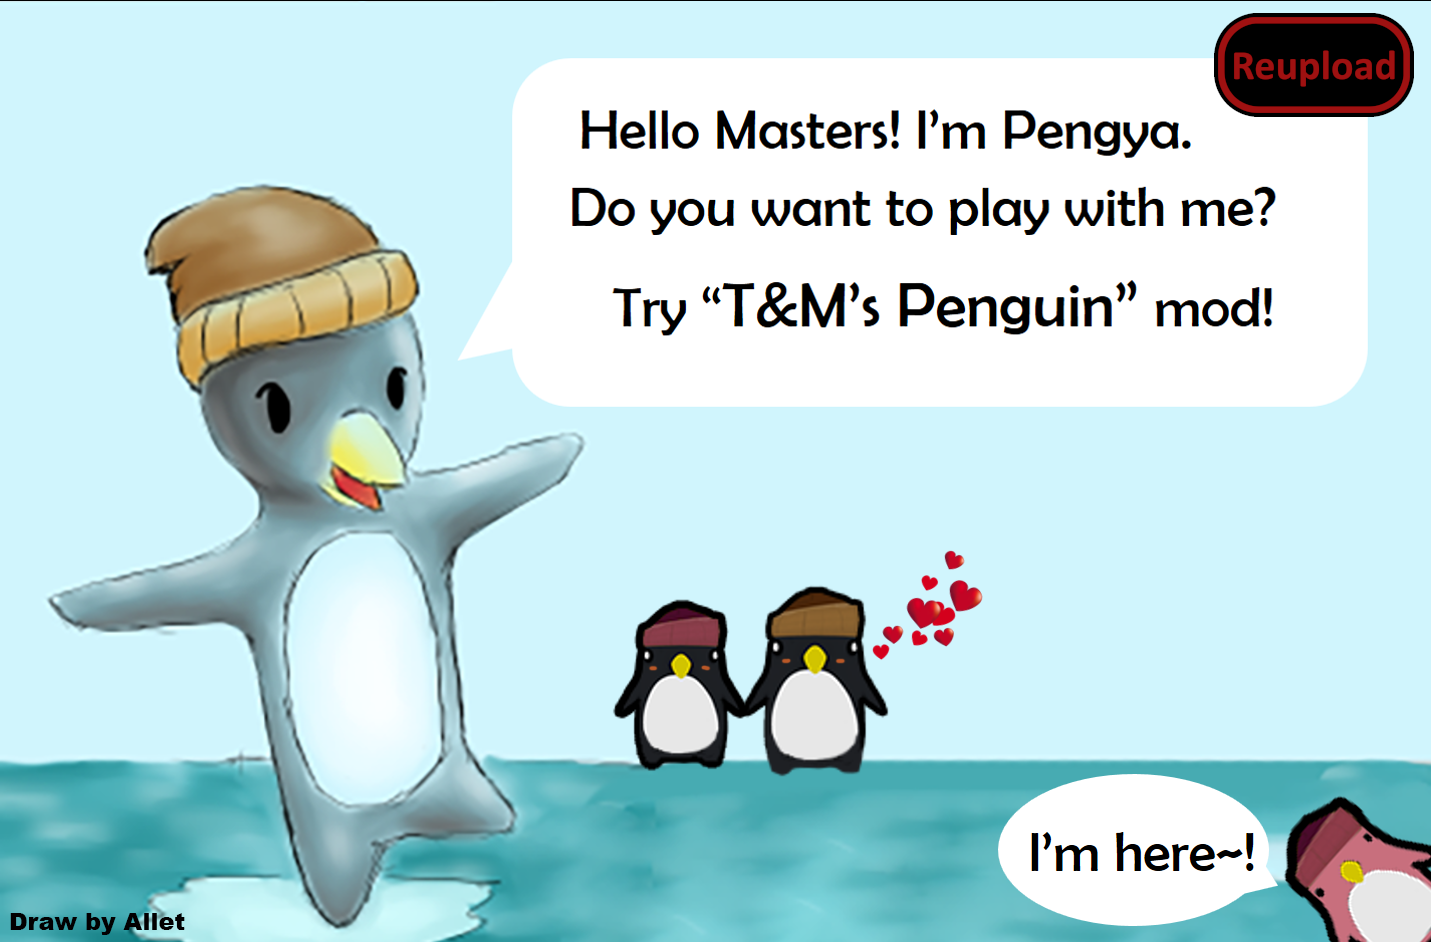
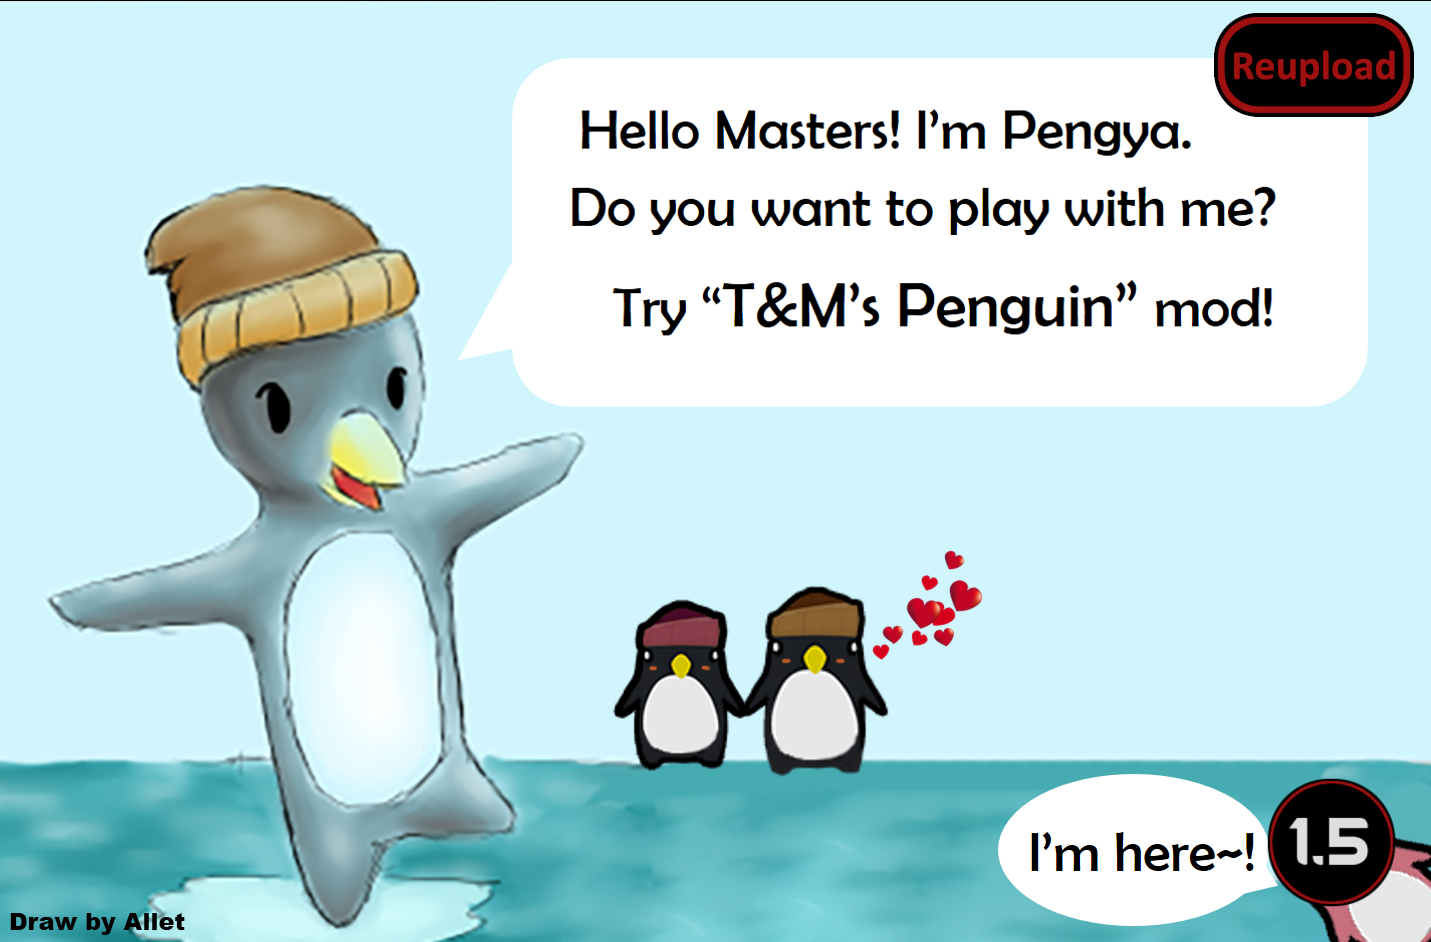
Mod updated for 1.5 and passed autotests

Changed region(s): [[0.8609, 0.8004, 0.9839, 0.9851]]

diff --git a/Source/Cutepenguin/Penguin_JobGiver_Cleaning.cs b/Source/Cutepenguin/Penguin_JobGiver_Cleaning.cs
@@ -8,11 +8,6 @@ public class Penguin_JobGiver_Cleaning : ThinkNode_JobGiver
 {
     protected override Job TryGiveJob(Pawn pawn)
     {
-        bool validator(Thing t)
-        {
-            return t.def.category == ThingCategory.Projectile;
-        }
-
         var thing = GenClosest.ClosestThingReachable(pawn.Position, pawn.Map,
             ThingRequest.ForGroup(ThingRequestGroup.Filth), PathEndMode.ClosestTouch, TraverseParms.For(pawn), 300f,
             validator);
@@ -24,5 +19,10 @@ public class Penguin_JobGiver_Cleaning : ThinkNode_JobGiver
         var job = new Job(JobDefOf.Clean);
         job.AddQueuedTarget(TargetIndex.A, thing);
         return job;
+
+        bool validator(Thing t)
+        {
+            return t.def.category == ThingCategory.Projectile;
+        }
     }
 }

diff --git a/README.md b/README.md
@@ -26,11 +26,13 @@ Preview image : Allet
 
 -  See if the the error persists if you just have this mod and its requirements active.
 -  If not, try adding your other mods until it happens again.
--  Post your error-log using https://steamcommunity.com/workshop/filedetails/?id=818773962]HugsLib and command Ctrl+F12
+-  Post your error-log using https://steamcommunity.com/workshop/filedetails/?id=818773962]HugsLib or the standalone https://steamcommunity.com/sharedfiles/filedetails/?id=2873415404]Uploader and command Ctrl+F12
 -  For best support, please use the Discord-channel for error-reporting.
 -  Do not report errors by making a discussion-thread, I get no notification of that.
 -  If you have the solution for a problem, please post it to the GitHub repository.
+-  Use https://github.com/RimSort/RimSort/releases/latest]RimSort to sort your mods
 
 
 
+https://steamcommunity.com/sharedfiles/filedetails/changelog/2268877264]![Image](https://img.shields.io/github/v/release/emipa606/CutePenguin?label=latest%20version&style=plastic&color=9f1111&labelColor=black)
 
